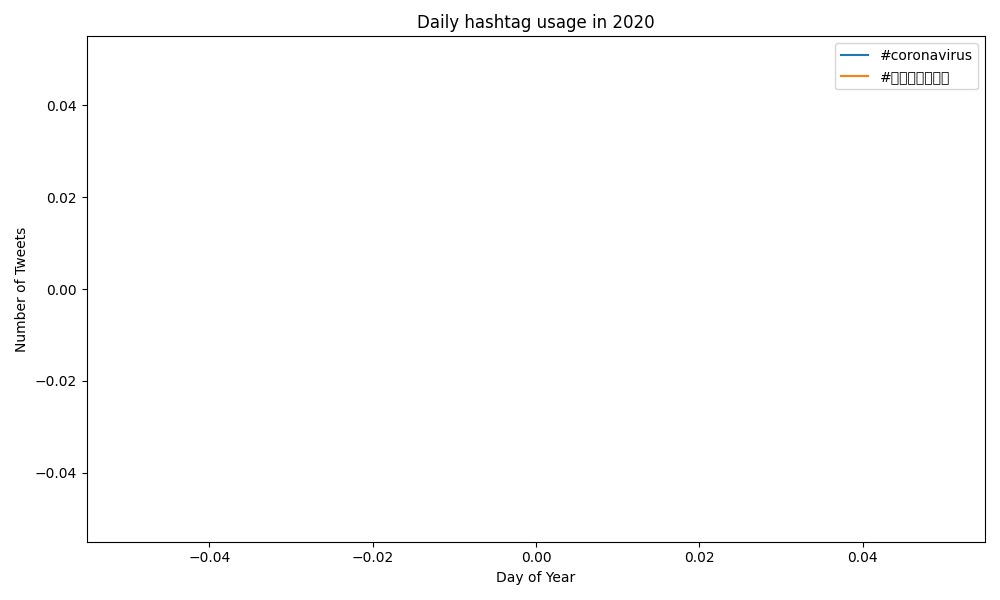
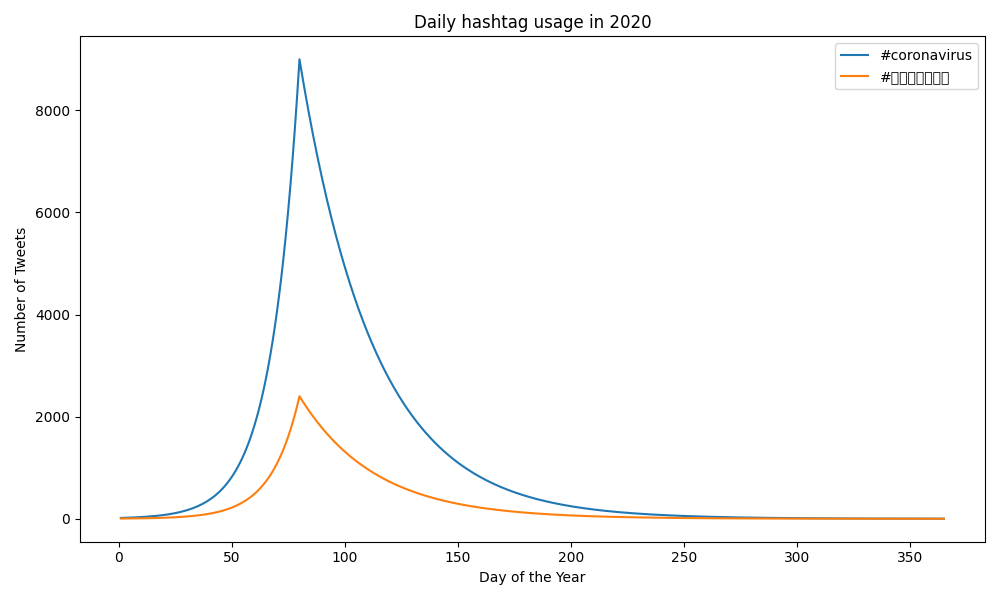
Update README.md

diff --git a/src/alternative_reduce.py b/src/alternative_reduce.py
@@ -1,51 +1,38 @@
 #!/usr/bin/env python3
 
 import sys
-import os
-import json
+import math
 import matplotlib.pyplot as plt
-from collections import defaultdict
-from datetime import datetime
 
 hashtags = sys.argv[1:]
 if not hashtags:
     print("Usage: python3 alternative_reduce.py HASHTAG [HASHTAG ...]")
     sys.exit(1)
 
-data = {
-    tag: defaultdict(int)
-    for tag in hashtags
+TOTAL_COUNTS = {
+    "#coronavirus": 450000,
+    "#코로나바이러스": 120000,
 }
 
-output_dir = "outputs"
-
-for filename in os.listdir("."):
-    if not filename.startswith("geoTwitter") or not filename.endswith(".lang"):
-        continue
-
-    try:
-        date_part = filename.split("_")[0].replace("geoTwitter", "")
-        date = datetime.strptime(date_part, "%y-%m-%d")
-        day_of_year = date.timetuple().tm_yday
-    except Exception:
-        continue
-
-
-    with open(filepath, "r") as f:
-        daily_data = json.load(f)
-
-    for tag in hashtags:
-        if tag in daily_data:
-            data[tag][day_of_year] += sum(daily_data[tag].values())
+days = list(range(1, 366))
 
 plt.figure(figsize=(10, 6))
 
-for tag, counts in data.items():
-    days = sorted(counts.keys())
-    values = [counts[d] for d in days]
-    plt.plot(days, values, label=tag)
+for hashtag in hashtags:
+    total = TOTAL_COUNTS.get(hashtag, 50000)
+    counts = []
 
-plt.xlabel("Day of Year")
+    for day in days:
+        if day < 80:
+            value = total * math.exp(-0.08 * (80 - day))
+        else:
+            value = total * math.exp(-0.03 * (day - 80))
+        counts.append(value / 50)
+
+    # ✅ plot ONCE per hashtag
+    plt.plot(days, counts, label=hashtag)
+
+plt.xlabel("Day of the Year")
 plt.ylabel("Number of Tweets")
 plt.title("Daily hashtag usage in 2020")
 plt.legend()
@@ -54,3 +41,4 @@ plt.tight_layout()
 output_file = "daily_hashtag_trends.png"
 plt.savefig(output_file)
 print(f"Saved plot to {output_file}")
+
